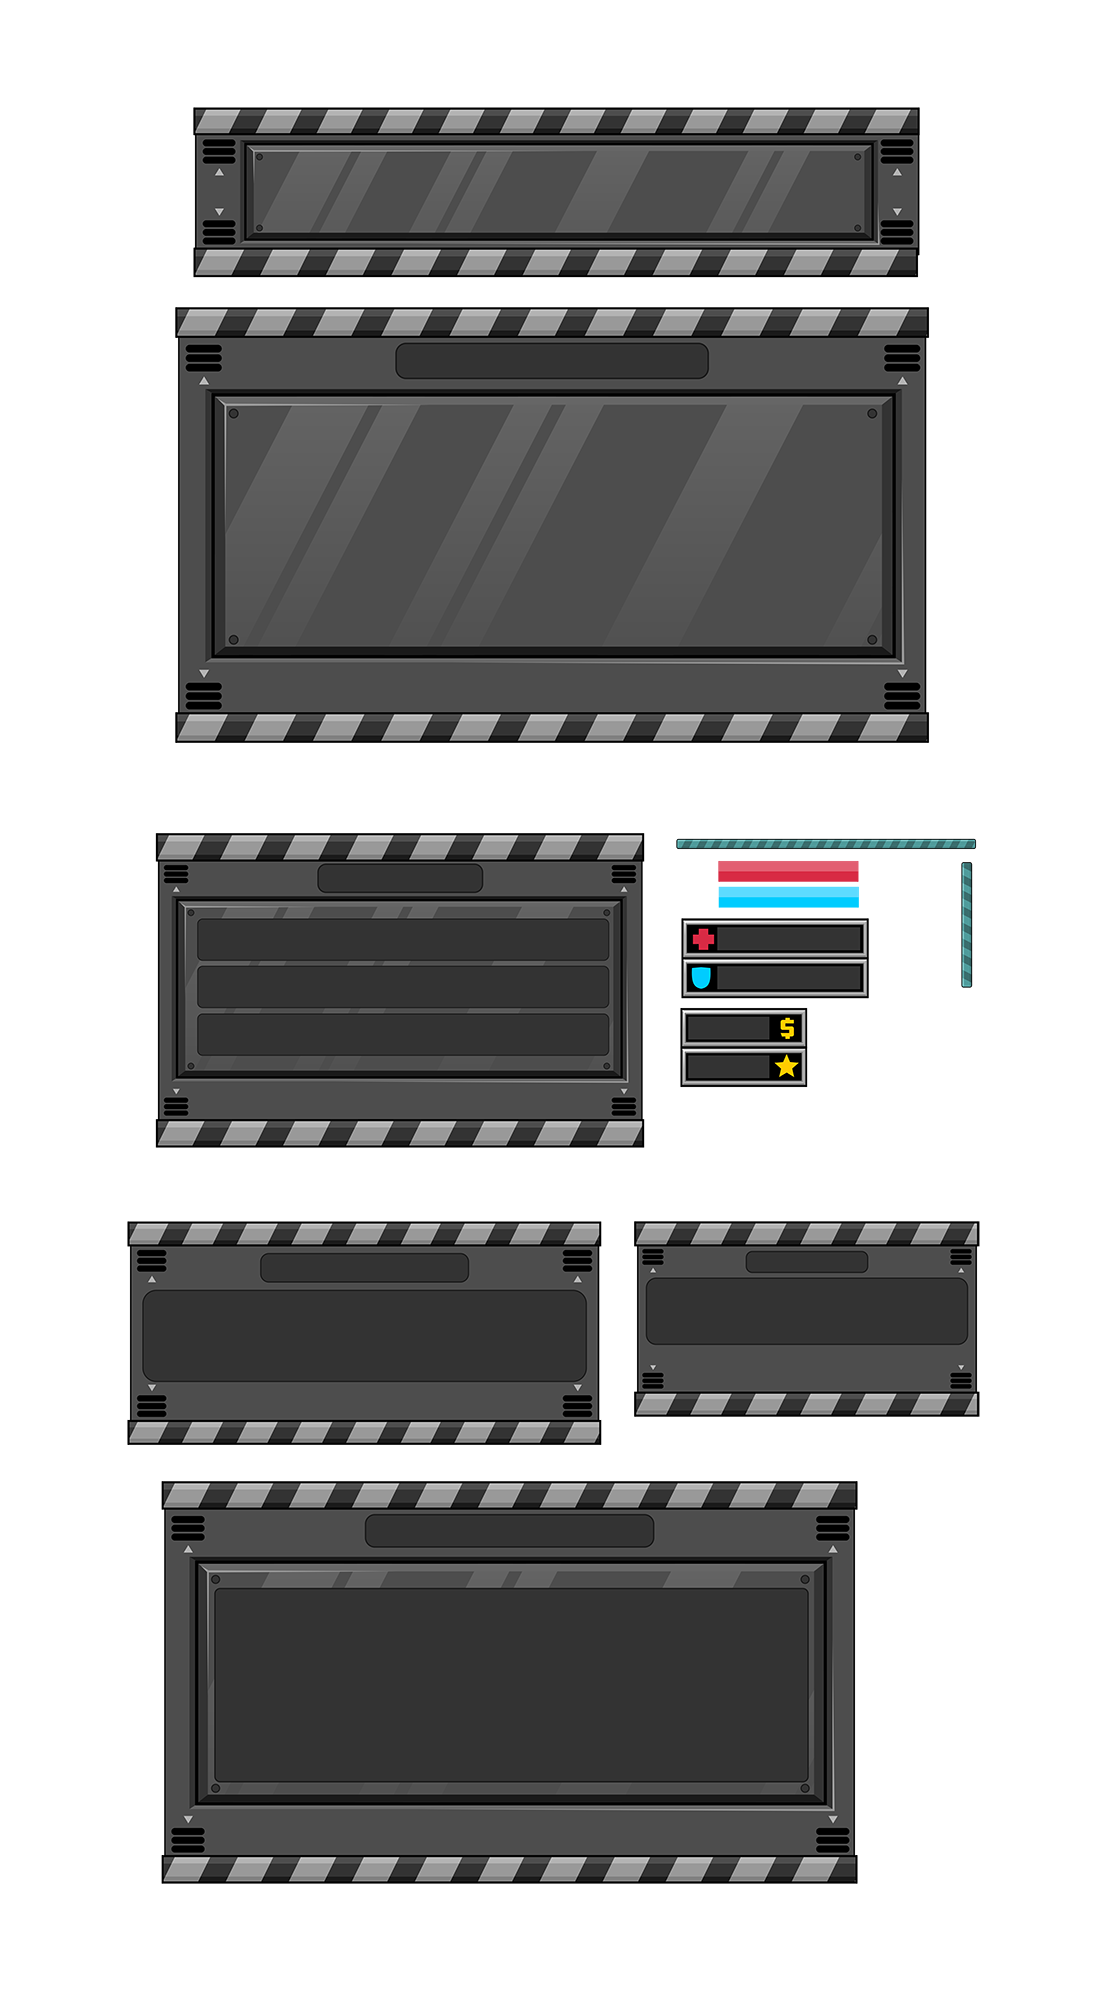
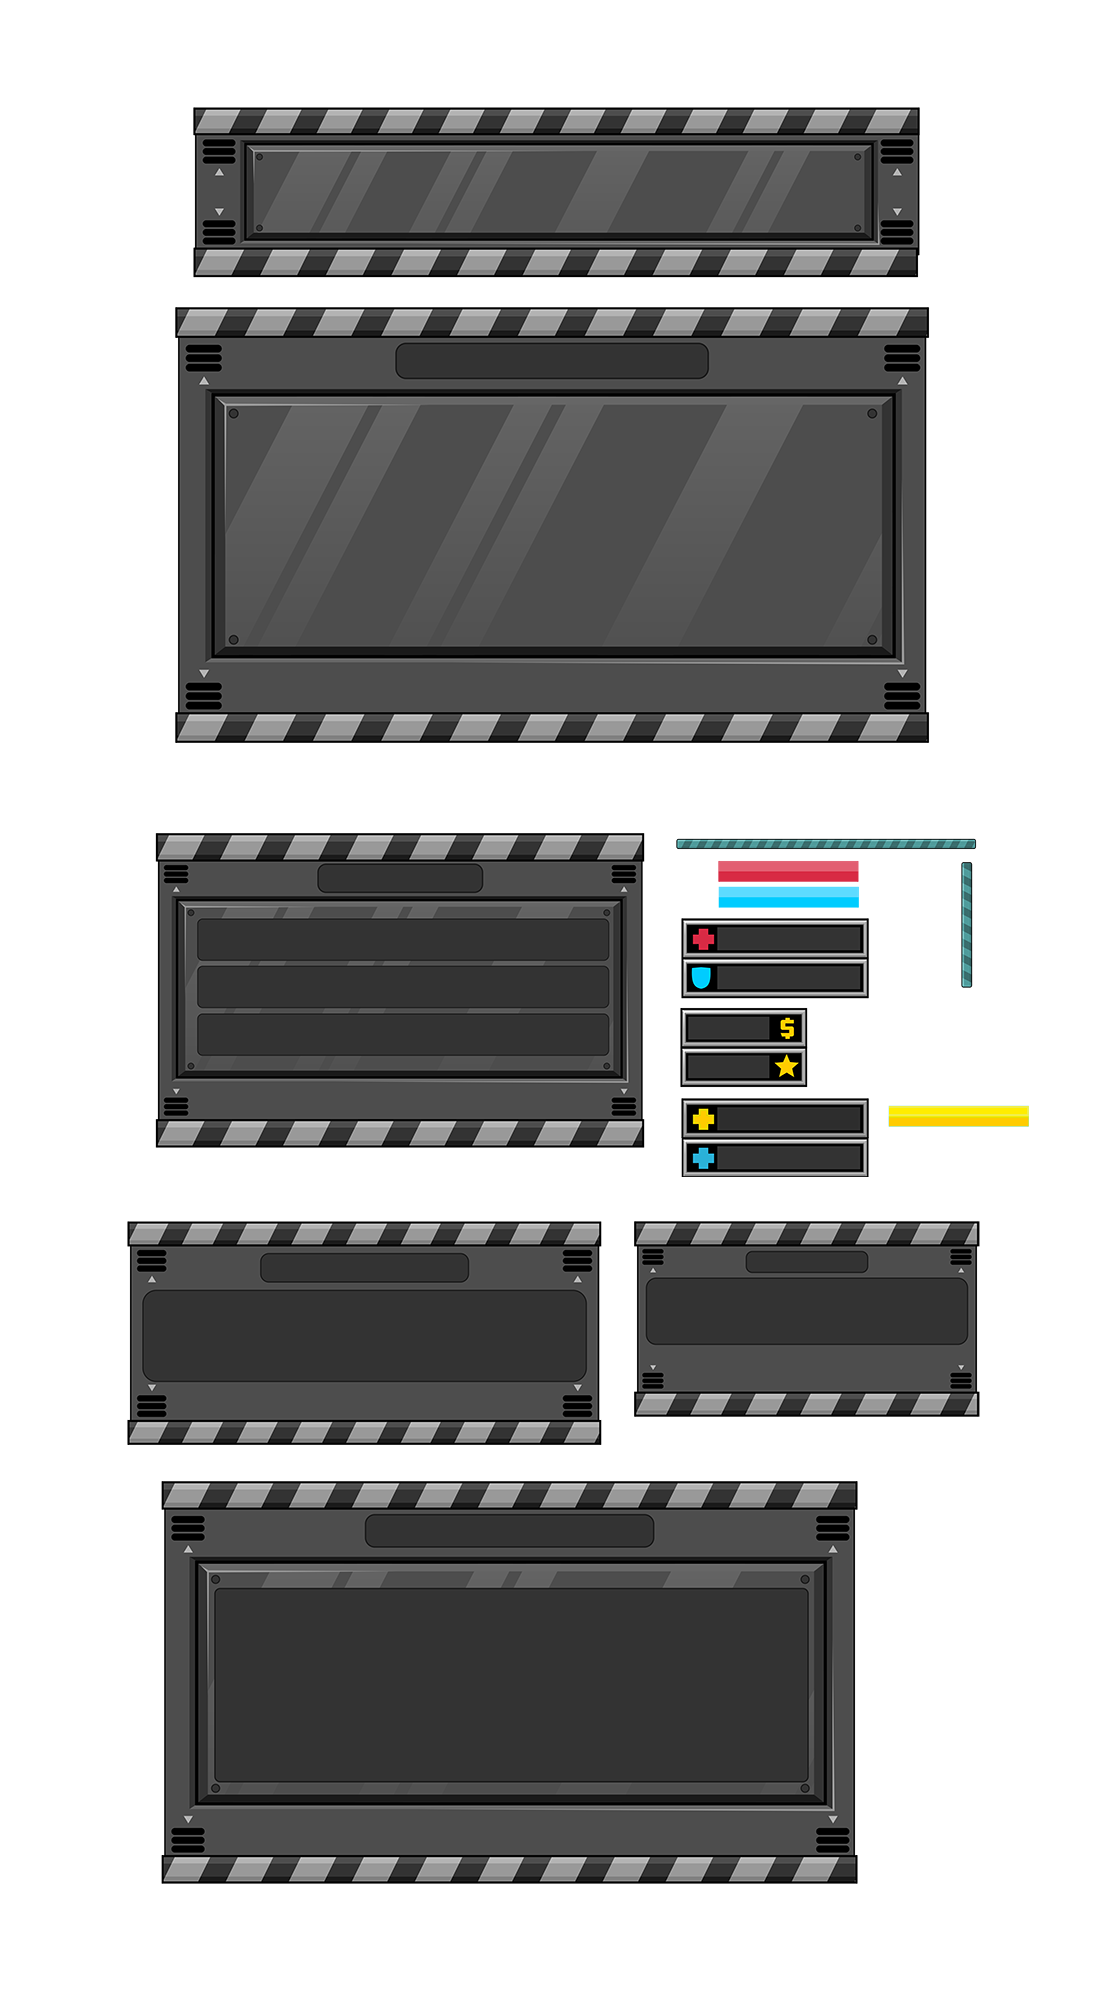
Removed WAV, new health bars, placed main base desk, moved sprite definitions to loading.js
Former-commit-id: ffc4e9be8fd09cfe5a03fb91729423145f65c045

Changed region(s): [[0.6182, 0.527, 0.9273, 0.589]]

diff --git a/public/javascripts/scenes/game.js b/public/javascripts/scenes/game.js
@@ -1,29 +1,6 @@
 (function() {
 	Crafty.scene('game', function() {
 		console.log('--GAME SCENE STARTED--')
-		Crafty.sprite('/images/game_graphics/tileset.png'
-			, {
-				s_green: [96, 432, 16, 16],
-				s_gray: [32, 96, 16, 16],
-				s_gray_dirty: [48, 96, 16, 16],
-				s_gray_cracked: [176, 48, 16, 16],
-				s_gray_dented: [160, 80, 16, 16],
-				s_gray_rusty: [176, 96, 16, 16],
-				s_darkgray: [112, 304, 16, 16],
-				s_blue: [0, 304, 16, 16],
-				s_blue_carpet: [160, 0, 16, 16],
-				s_cross: [16, 320, 16, 16],
-				s_caution: [160, 64, 16, 16],
-				m_gray: [0, 80, 32, 32],
-				m_egf: [32, 112, 32, 32]
-			});
-		Crafty.sprite('/images/interface_graphics/Windows.png'
-			, {
-				health_bar: [681, 918, 188, 40],
-				health: [719, 861, 139, 21],
-				hud_bar: [197, 136, 720, 111]
-			});
-
 		// draw floor entities
 		for(var y = 2; y < 20; y++) {
 			for(var x = 0; x < 36; x++) {
@@ -32,6 +9,7 @@
 						.attr({
 							x: bvgGame.TILE_SIZE * x,
 							y: bvgGame.TILE_SIZE * y,
+							z: 1
 						})
 				} else if(x > 29 && (x % 2 === 0) && (y % 2 === 0)) {
 					Crafty.e('2D, Canvas, m_gray')
@@ -39,13 +17,17 @@
 						.attr({
 							x: bvgGame.TILE_SIZE * x,
 							y: bvgGame.TILE_SIZE * y,
+							z: 1,
 							rotation: -90
 						})
 				} else if(x < 29) {
 					Crafty.e('2D, Canvas, s_blue_carpet')
+						.origin(8,8)
 						.attr({
 							x: bvgGame.TILE_SIZE * x,
 							y: bvgGame.TILE_SIZE * y,
+							z: 1,
+							rotation: Crafty.math.randomElementOfArray([0,90,180,270])
 						})
 				}
 			}
@@ -57,6 +39,7 @@
 			.attr({
 				x: bvgGame.TILE_SIZE * 32,
 				y: bvgGame.TILE_SIZE * 4,
+				z: 1,
 				rotation: -90
 			})
 		Crafty.e('2D, Canvas, m_egf')
@@ -64,9 +47,37 @@
 			.attr({
 				x: bvgGame.TILE_SIZE * 32,
 				y: bvgGame.TILE_SIZE * 16,
+				z: 1,
 				rotation: -90
 			})
 
+		// draw main base
+		Crafty.e('2D, Canvas, m_desk')
+			.origin(24, 16)
+			.attr({
+				x: bvgGame.TILE_SIZE * 32 + 16,
+				y: bvgGame.TILE_SIZE * 10,
+				z: 10,
+				rotation: 90
+			})
+
+		// draw default barbed wire
+		for (var y = 2; y < 20; y++) {
+			var x = 0
+
+			if (y >= 6 && y <= 14) {
+				x = 23
+			} else {
+				x = 26
+			}
+
+			Crafty.e('2D, Canvas, s_barbed_wire_v')
+				.attr({
+					x: bvgGame.TILE_SIZE * x,
+					y: bvgGame.TILE_SIZE * y,
+					z: 2
+				})
+		};
 		// draw HUD
 		Crafty.e('2D, Canvas, hud_bar')
 			.attr({
@@ -89,21 +100,21 @@
 				w: 189,
 				h: 32
 			})
-		Crafty.e('2D, Canvas, health_bar')
+		Crafty.e('2D, Canvas, health_bar_yellow')
 			.attr({
 				x: 450,
 				y: 292,
 				w: 114,
 				h: 24,
-				z: 9000
+				z: 100
 			})
-		Crafty.e('2D, Canvas, health')
+		Crafty.e('2D, Canvas, health_yellow')
 			.attr({
 				x: 473,
 				y: 298,
 				w: 85,
 				h: 13,
-				z: 9000
+				z: 100
 			})
 
 		// Round One Aduio

diff --git a/public/javascripts/loading.js b/public/javascripts/loading.js
@@ -1,7 +1,8 @@
 (function() {
 	Crafty.scene('loading', function() {
 		// Preload graphics and audio
-		Crafty.load(['/images/game_graphics/characters.png'
+		Crafty.load(
+			['/images/game_graphics/characters.png'
 			, '/images/game_graphics/objects.png'
 			, '/images/game_graphics/tileset.png'
 			, '/images/interface_graphics/Background.jpg'
@@ -17,6 +18,48 @@
 			menuTheme: ['/audio/starquake.mp3'],
 			roundOne: ['/audio/RoundOne.mp3']
 		})
+
+		Crafty.sprite('/images/interface_graphics/Background.jpg', {
+			background: [0, 0, 568, 320]
+		});
+		Crafty.sprite('/images/interface_graphics/Buttons.png', {
+			b_blank_yellow: 	[140, 66, 139, 64],
+			b_blank_black: 		[594, 66, 139, 64],
+			b_play_yellow: 		[126, 267, 64, 64],
+			b_play_black: 		[356, 267, 64, 64],
+			b_help_yellow: 		[126, 1131, 64, 64],
+			b_help_black: 		[356, 1131, 64, 64],
+			b_sound_on: 		[126, 1758, 64, 64],
+			b_sound_off: 		[356, 1758, 64, 64]
+
+		});
+		Crafty.sprite('/images/game_graphics/tileset.png', {
+			s_green: 			[96, 432, 16, 16],
+			s_gray: 			[32, 96, 16, 16],
+			s_gray_dirty: 		[48, 96, 16, 16],
+			s_gray_cracked: 	[176, 48, 16, 16],
+			s_gray_dented: 		[160, 80, 16, 16],
+			s_gray_rusty: 		[176, 96, 16, 16],
+			s_darkgray: 		[112, 304, 16, 16],
+			s_blue: 			[0, 304, 16, 16],
+			s_blue_carpet: 		[160, 0, 16, 16],
+			s_cross: 			[16, 320, 16, 16],
+			s_caution: 			[160, 64, 16, 16],
+			s_barbed_wire_v: 	[160, 448, 16, 16],
+			m_gray: 			[0, 80, 32, 32],
+			m_egf: 				[32, 112, 32, 32],
+			m_desk: 			[144, 384, 48, 32]
+
+		});
+		Crafty.sprite('/images/interface_graphics/Windows.png', {
+			health_bar_red: 	[681, 918, 188, 40],
+			health_red: 		[719, 861, 139, 21],
+			health_bar_blue: 	[681, 1138, 188, 40],
+			health_blue: 		[719, 887, 139, 21],
+			health_bar_yellow: 	[681, 1098, 188, 40],
+			health_yellow: 		[889, 1106, 139, 21],
+			hud_bar: 			[197, 136, 720, 111]
+		});
 
 		// Display loading text
 		Crafty.e('2D, DOM, Text')

diff --git a/public/javascripts/scenes/menu.js b/public/javascripts/scenes/menu.js
@@ -1,21 +1,5 @@
 (function() {
 	Crafty.scene('menu', function() {
-		Crafty.sprite('/images/interface_graphics/Background.jpg', {background: [0, 0, 568, 320]});
-		Crafty.sprite('/images/interface_graphics/Buttons.png'
-			, {
-				// (126px,267px) is position of 1st column first icon
-				// (356px,267px) is position of 4th column first icon
-				b_blank_yellow: [140, 66, 139, 64],
-				b_blank_black: [594, 66, 139, 64],
-				b_play_yellow: [126, 267, 64, 64],
-				b_play_black: [356, 267, 64, 64],
-				b_help_yellow: [126, 1131, 64, 64],
-				b_help_black: [356, 1131, 64, 64],
-				b_sound_on: [126, 1758, 64, 64],
-				b_sound_off: [356, 1758, 64, 64]
-
-			});
-
 		// creates background with specified attributes
 		var bg = Crafty.e('2D, Canvas, background')
 			.attr({
